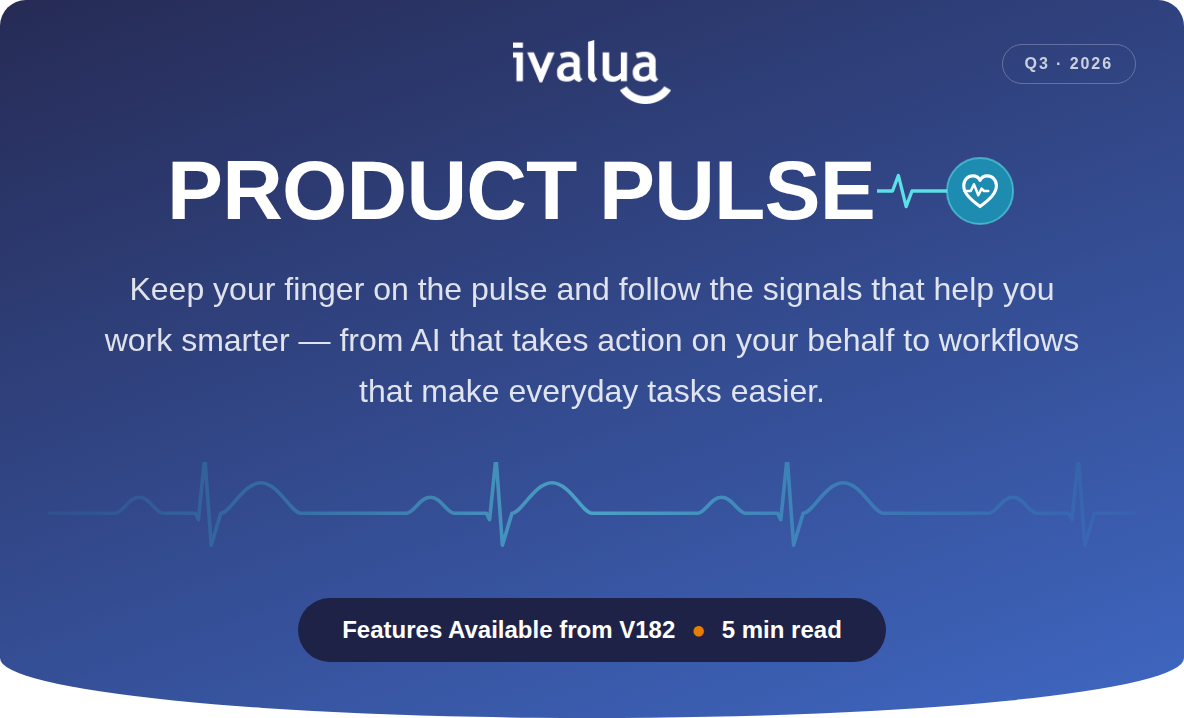
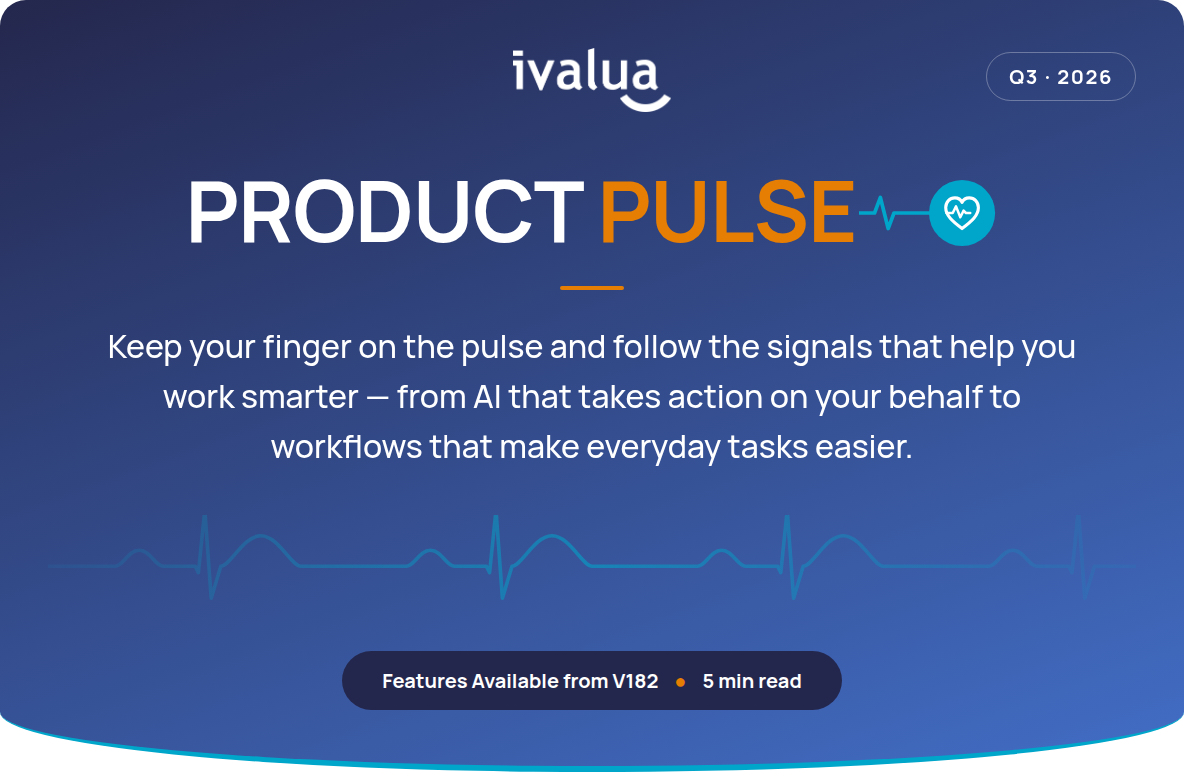
Hero: apply 2026 brand playbook (palette, Manrope, 3 type sizes, orange accent and rule, teal edge)
Claude-Session: https://claude.ai/code/session_01JX6sXjeg33BNGLjW5NAsjY

diff --git a/hero.html b/hero.html
@@ -4,30 +4,35 @@
 <meta charset="utf-8">
 <meta name="viewport" content="width=device-width, initial-scale=1">
 <title>Product Pulse Hero</title>
+<link rel="preconnect" href="https://fonts.googleapis.com">
+<link href="https://fonts.googleapis.com/css2?family=Manrope:wght@500;700&display=swap" rel="stylesheet">
 <style>
-  body{ margin:0; background:transparent; font-family:Arial, Helvetica, sans-serif; }
+  /* Brand playbook 2026: Navy #24274d, Blue #426EC6, Teal #00a6ca, Orange #e67e04.
+     Manrope Bold for the headline, Manrope Medium for supporting text, max 3 sizes. */
+  body{ margin:0; background:transparent; font-family:'Manrope', Arial, Helvetica, sans-serif; }
   .hero{
     position:relative; overflow:hidden; max-width:1184px; margin:0 auto;
-    background:linear-gradient(160deg, #262B55 0%, #3F67C2 100%);
+    background:linear-gradient(160deg, #24274d 0%, #426EC6 100%);
+    border-bottom:6px solid #00a6ca;
     border-radius:26px 26px 50% 50% / 26px 26px 60px 60px;
     text-align:center; color:#FFFFFF; padding:0 48px 56px;
   }
-  .dome{ position:absolute; top:-170px; left:50%; transform:translateX(-50%);
-    width:420px; height:270px; border-radius:50%; background:rgba(20,24,60,0.35); }
-  .logo{ position:relative; display:block; margin:40px auto 0; height:64px; filter:brightness(0) invert(1); }
-  .kicker{ position:absolute; top:44px; right:48px; padding:10px 22px; border:1px solid rgba(255,255,255,0.25);
-    border-radius:999px; font-size:16px; font-weight:700; letter-spacing:0.12em; color:rgba(255,255,255,0.75); }
-  h1{ position:relative; margin:44px 0 32px; font-size:84px; font-weight:900; line-height:1; letter-spacing:-0.01em; }
+  .logo{ position:relative; display:block; margin:48px auto 0; height:64px; filter:brightness(0) invert(1); }
+  .kicker{ position:absolute; top:52px; right:48px; padding:10px 22px; border:1px solid rgba(255,255,255,0.3);
+    border-radius:999px; font-size:20px; font-weight:700; letter-spacing:0.08em; color:#FFFFFF; }
+  h1{ position:relative; margin:56px 0 0; font-size:84px; font-weight:700; line-height:1; letter-spacing:-0.01em; }
+  h1 .accent{ color:#e67e04; }
+  .rule{ display:block; width:64px; height:4px; margin:32px auto; background:#e67e04; border-radius:2px; }
   h1 .heart{ display:inline-block; vertical-align:middle; margin-left:2px; position:relative; top:-6px; }
-  .sub{ position:relative; max-width:980px; margin:0 auto; font-size:32px; line-height:1.6; color:rgba(255,255,255,0.85); }
+  .sub{ position:relative; max-width:980px; margin:0 auto; font-size:32px; font-weight:500; line-height:1.55; color:#FFFFFF; }
   .ekg{ display:block; width:100%; margin:44px 0 40px; opacity:0.6; }
-  .pill{ position:relative; display:inline-block; padding:18px 44px; border-radius:999px; background:#1F2247;
-    font-size:24px; font-weight:700; color:#FFFFFF; }
-  .pill .dot{ color:#E67E04; margin:0 16px; }
+  .pill{ position:relative; display:inline-block; padding:16px 40px; border-radius:999px; background:#24274d;
+    font-size:20px; font-weight:700; color:#FFFFFF; }
+  .pill .dot{ color:#e67e04; margin:0 16px; }
   @media (max-width:700px){
     .logo{ height:44px; } .kicker{ top:18px; right:18px; font-size:12px; padding:6px 12px; }
-    h1{ font-size:40px; } .sub{ font-size:16px; } .pill{ font-size:15px; padding:12px 22px; }
-    h1 .heart{ width:68px; height:34px; } .sub{ font-size:18px; }
+    h1{ font-size:40px; } .sub{ font-size:18px; } .pill{ font-size:12px; padding:10px 20px; }
+    h1 .heart{ width:68px; height:34px; } .rule{ margin:20px auto; }
   }
 </style>
 </head>
@@ -36,21 +41,22 @@
     <img class="logo" src="ivalua-logo.png" alt="Ivalua">
     <span class="kicker">Q3 · 2026</span>
 
-    <h1>PRODUCT PULSE<svg class="heart" width="140" height="70" viewBox="0 0 72 36" aria-hidden="true">
-      <path d="M0 18H8L11 10L15 26L18 18H36" fill="none" stroke="#5CE0E6" stroke-width="1.7" stroke-linecap="round" stroke-linejoin="round"/>
-      <circle cx="53" cy="18" r="17" fill="#1D8CB0" stroke="#5CE0E6" stroke-width="1" stroke-opacity="0.6"/>
+    <h1>PRODUCT <span class="accent">PULSE</span><svg class="heart" width="140" height="70" viewBox="0 0 72 36" aria-hidden="true">
+      <path d="M0 18H8L11 10L15 26L18 18H36" fill="none" stroke="#00a6ca" stroke-width="1.9" stroke-linecap="round" stroke-linejoin="round"/>
+      <circle cx="53" cy="18" r="17" fill="#00a6ca"/>
       <path d="M53 26c-5-3.7-8.4-6.7-8.4-10.8 0-2.9 2.1-5 4.7-5 1.7 0 3.1 1 3.7 2.3.6-1.3 2-2.3 3.7-2.3 2.6 0 4.7 2.1 4.7 5 0 4.1-3.4 7.1-8.4 10.8z" fill="none" stroke="#FFFFFF" stroke-width="1.6" stroke-linejoin="round"/>
       <path d="M45 18h3.2l1.7-3.4 2.2 5.6 1.7-3.4 1.2 1.2h2.2" fill="none" stroke="#FFFFFF" stroke-width="1.3" stroke-linecap="round" stroke-linejoin="round"/>
     </svg></h1>
+    <span class="rule"></span>
 
     <p class="sub">Keep your finger on the pulse and follow the signals that help you work smarter — from AI that takes action on your behalf to workflows that make everyday tasks easier.</p>
 
     <svg class="ekg" viewBox="0 0 680 60" aria-hidden="true">
       <defs>
         <linearGradient id="ekgGrad" x1="0" y1="0" x2="680" y2="0" gradientUnits="userSpaceOnUse">
-          <stop offset="0%" stop-color="#28A8D1" stop-opacity="0.15"/>
-          <stop offset="50%" stop-color="#5CE0E6" stop-opacity="0.95"/>
-          <stop offset="100%" stop-color="#28A8D1" stop-opacity="0.15"/>
+          <stop offset="0%" stop-color="#00a6ca" stop-opacity="0.15"/>
+          <stop offset="50%" stop-color="#00a6ca" stop-opacity="0.95"/>
+          <stop offset="100%" stop-color="#00a6ca" stop-opacity="0.15"/>
         </linearGradient>
       </defs>
       <path d="M 0,32 L 42,32 C 47,32 50,22 57,22 C 64,22 67,32 72,32 L 92,32 L 94,36 L 98,-3 L 102,52 L 108,32 C 114,32 122,13 133,13 C 144,13 152,32 158,32 L 224,32 C 229,32 232,22 239,22 C 246,22 249,32 254,32 L 274,32 L 276,36 L 280,-3 L 284,52 L 290,32 C 296,32 304,13 315,13 C 326,13 334,32 340,32 L 406,32 C 411,32 414,22 421,22 C 428,22 431,32 436,32 L 456,32 L 458,36 L 462,-3 L 466,52 L 472,32 C 478,32 486,13 497,13 C 508,13 516,32 522,32 L 588,32 C 593,32 596,22 603,22 C 610,22 613,32 618,32 L 638,32 L 640,36 L 644,-3 L 648,52 L 654,32 L 680,32"
